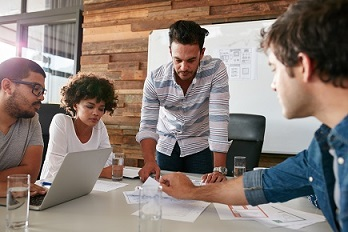
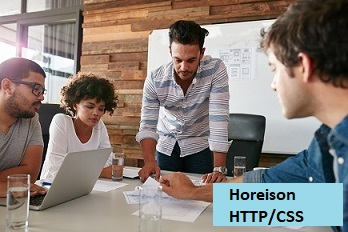
added updated photos with website links

Changed region(s): [[0.6034, 0.7845, 1.0, 0.9957]]

diff --git a/index.html b/index.html
@@ -61,9 +61,15 @@
             Work History
         </h2>
             <div class="nested">
-                <p class="run-buddy">
-                    </p>
-                <p class="horeison">
+                <p>
+                    <a href="https://jennyking0805.github.io/run-buddy/">
+                        <img src="assets/images/run-buddy.jpg">
+                    </a>
+                </p>
+                <p>
+                    <a href="https://jennyking0805.github.io/Horesion/">
+                        <img src="assets/images/Horeison.jpg">
+                    </a>
                 </p>
             </div>
     </section>

diff --git a/assets/css/style.css b/assets/css/style.css
@@ -117,7 +117,7 @@ section {
     height: 300px;
 }
 
-.run-buddy {
+/* .run-buddy {
     background-image: url("../images/run-buddy.jpg");
     display: block;
 }
@@ -125,7 +125,7 @@ section {
 .horeison {
     background-image: url("../images/Horeison.jpg");
     display: block;
-}
+} */
 
 .nested-2 p {
     display: inline-block;
